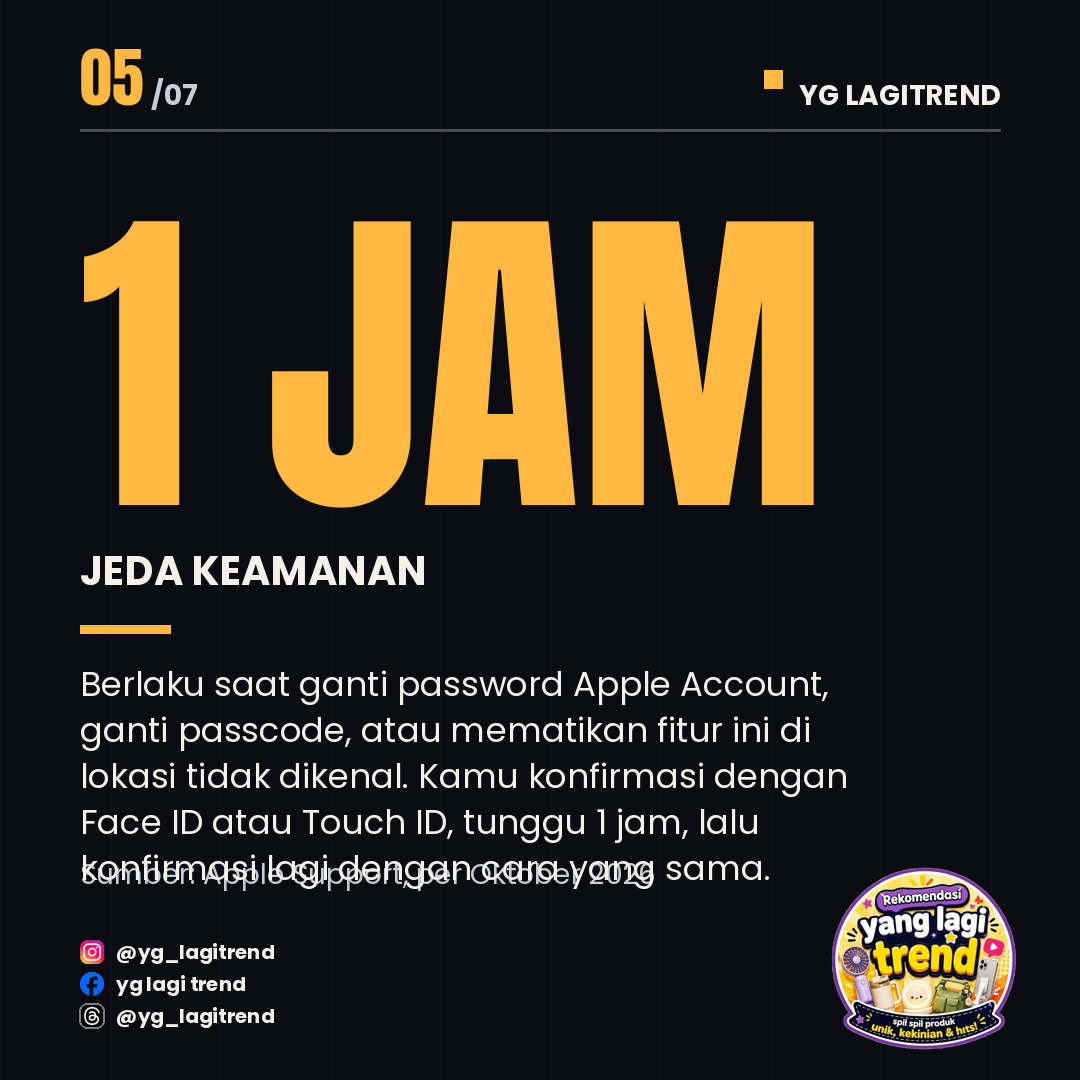
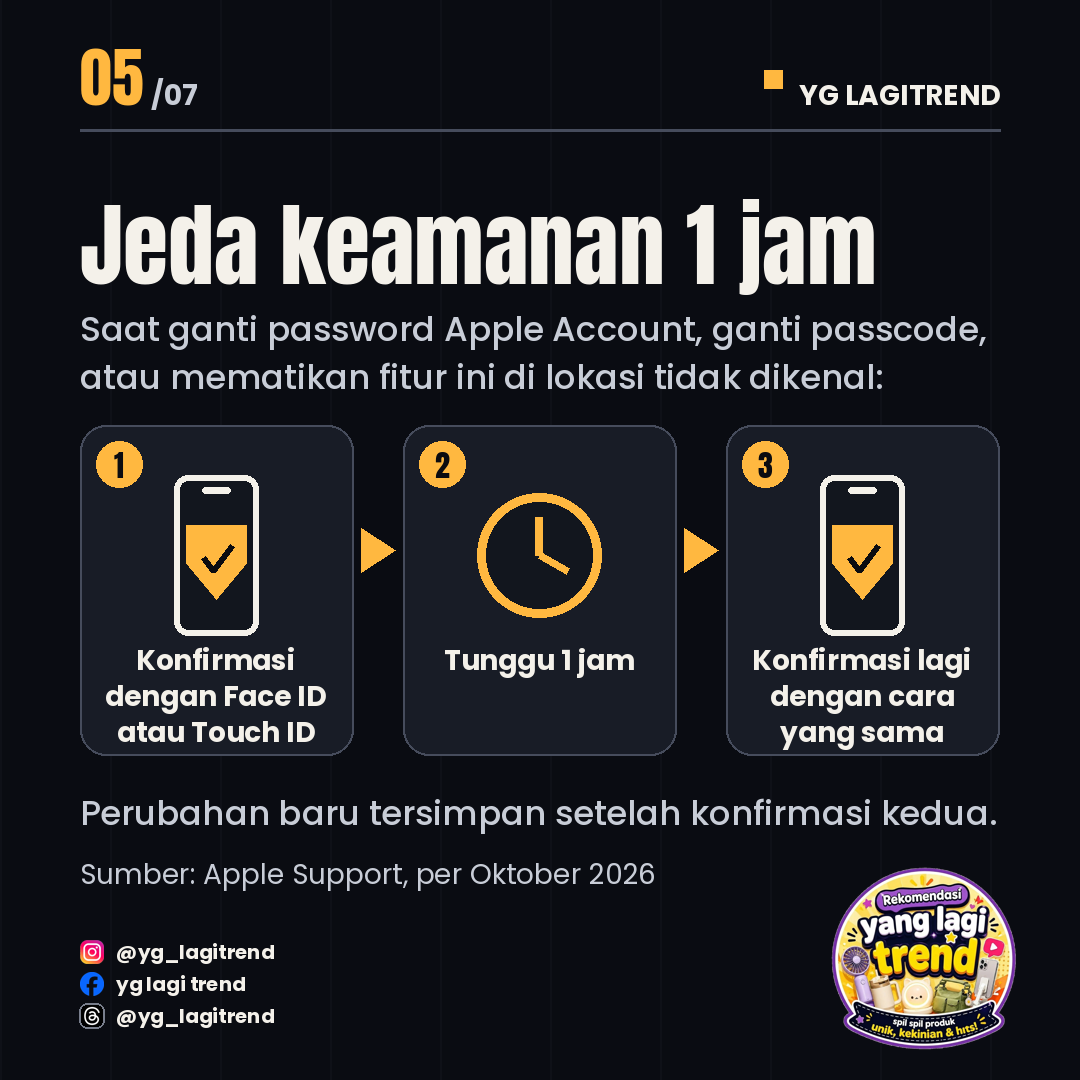
Template v2: ilustrasi alur dan perbandingan (flow, compare)

Changed region(s): [[0.0611, 0.1833, 0.9167, 0.825]]

diff --git a/template/car_template_v2.py b/template/car_template_v2.py
@@ -91,3 +91,54 @@ def closer(i,n,q,sub,src):
     im,d=frame(i,n,src);y=215;tf=F(AN,110)
     for l in bwrap(d,q,tf,920):d.text((80,y),l,font=tf,fill=WHITE);y+=130
     lines(d,80,y+20,sub,F(PM,36),MUT,620,50);return im
+
+# ---------- ILUSTRASI (tema gelap) ----------
+RED=(240,90,80)
+def ic_phone(d,cx,cy,s=1,col=WHITE):
+    d.rounded_rectangle([cx-42*s,cy-80*s,cx+42*s,cy+80*s],radius=int(14*s),outline=col,width=max(3,int(6*s)),fill=(18,22,30))
+    d.rounded_rectangle([cx-14*s,cy-68*s,cx+14*s,cy-62*s],radius=3,fill=col)
+def ic_shield(d,cx,cy,s=1,col=ACC,tick=INKD):
+    d.polygon([(cx-30*s,cy-34*s),(cx+30*s,cy-34*s),(cx+30*s,cy+4*s),(cx,cy+40*s),(cx-30*s,cy+4*s)],fill=col)
+    d.line([(cx-13*s,cy-2*s),(cx-3*s,cy+11*s),(cx+16*s,cy-14*s)],fill=tick,width=max(3,int(6*s)),joint='curve')
+def ic_clock(d,cx,cy,s=1,col=ACC):
+    d.ellipse([cx-62*s,cy-62*s,cx+62*s,cy+62*s],outline=col,width=max(4,int(9*s)),fill=(18,22,30))
+    d.line([cx,cy,cx,cy-38*s],fill=col,width=max(3,int(8*s)));d.line([cx,cy,cx+28*s,cy+16*s],fill=col,width=max(3,int(8*s)))
+def ic_x(d,cx,cy,s=1,col=RED):
+    d.ellipse([cx-34*s,cy-34*s,cx+34*s,cy+34*s],fill=col)
+    d.line([cx-14*s,cy-14*s,cx+14*s,cy+14*s],fill=WHITE,width=max(4,int(8*s)));d.line([cx-14*s,cy+14*s,cx+14*s,cy-14*s],fill=WHITE,width=max(4,int(8*s)))
+def ic_ok(d,cx,cy,s=1,col=GRN):
+    d.ellipse([cx-34*s,cy-34*s,cx+34*s,cy+34*s],fill=col)
+    d.line([(cx-15*s,cy+1*s),(cx-4*s,cy+13*s),(cx+17*s,cy-13*s)],fill=WHITE,width=max(4,int(8*s)),joint='curve')
+def flow(i,n,title,intro,steps,note,src):
+    """steps: list of (ikon, label); ikon in 'phone','clock','phone2'"""
+    im,d=frame(i,n,src);y=175;tf=F(AN,92)
+    for l in bwrap(d,title,tf,920):d.text((80,y),l,font=tf,fill=WHITE);y+=108
+    y+=22;y=lines(d,80,y,intro,F(PM,34),MUT,920,48)+24
+    k=len(steps);gap=50;cw=(920-gap*(k-1))//k;ch=330
+    for j,(ic,lab) in enumerate(steps):
+        x=80+j*(cw+gap);d.rounded_rectangle([x,y,x+cw,y+ch],radius=26,fill=CARD,outline=LN,width=2)
+        d.ellipse([x+16,y+16,x+62,y+62],fill=ACC);d.text((x+39,y+40),str(j+1),font=F(AN,30),fill=INKD,anchor='mm')
+        cx=x+cw//2;cy=y+130
+        if ic=='clock':ic_clock(d,cx,cy,1.0)
+        else:ic_phone(d,cx,cy,1.0);ic_shield(d,cx,cy+4,1.0)
+        f=F(PB,28);ly=y+235
+        for l in bwrap(d,lab,f,cw-30)[:3]:d.text((cx,ly),l,font=f,fill=WHITE,anchor='mm');ly+=36
+        if j<k-1:
+            ax=x+cw+8;ay=y+ch//2-40;d.polygon([(ax,ay-22),(ax+34,ay),(ax,ay+22)],fill=ACC)
+    lines(d,80,y+ch+34,note,F(PM,34),MUT,920,48);return im
+def compare(i,n,title,left,right,note,src):
+    """left/right: (judul, keterangan)"""
+    im,d=frame(i,n,src);y=175;tf=F(AN,92)
+    for l in bwrap(d,title,tf,920):d.text((80,y),l,font=tf,fill=WHITE);y+=108
+    y+=40;cw=440;ch=420
+    for j,(t,sub) in enumerate((left,right)):
+        x=80+j*(cw+40);good=(j==0)
+        d.rounded_rectangle([x,y,x+cw,y+ch],radius=26,fill=CARD,outline=GRN if good else RED,width=4)
+        cx=x+cw//2;ic_phone(d,cx,y+130,1.15)
+        if good:ic_shield(d,cx,y+135,1.15);ic_ok(d,cx+62,y+60,0.8)
+        else:ic_x(d,cx,y+135,1.0)
+        f=F(PB,32);ly=y+250
+        for l in bwrap(d,t,f,cw-40):d.text((cx,ly),l,font=f,fill=WHITE,anchor='mm');ly+=42
+        f2=F(PR,28);ly+=14
+        for l in bwrap(d,sub,f2,cw-50):d.text((cx,ly),l,font=f2,fill=MUT,anchor='mm');ly+=38
+    lines(d,80,y+ch+30,note,F(PM,34),MUT,920,48);return im
